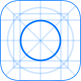
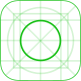
增加潜能果，更改样式

diff --git a/My_helper/pages/devlop/edit.js b/My_helper/pages/devlop/edit.js
@@ -1,39 +1,82 @@
 // pages/devlop/edit.js
+
+var app = getApp();
+var DATA = require('../../data/devlop-data.js');
+
 Page({
 
   /**
    * 页面的初始数据
    */
   data: {
+    showTab : 1,
+    tabData : [
+      {
+        id : 1,
+        txt: "潜能果计算"
+      },
+      {
+        id : 2,
+        txt: "潜能果组合"
+      }
+    ],
     FIRSTNUM : 3,
-    UNIT : 1000,
-    endNum :0
+    UNIT : 0.1,   // 亿
+    endNum :0,
+    isError: false,
+    error : '',
+    seasonData : DATA.season,
+    skyData: DATA.sky
   },
 
   /**
    * 生命周期函数--监听页面加载
    */
   onLoad: function (options) {
-  
+    // console.log(DATA);
+  },
+
+  changeTabFn : function(e){
+    let showid = e.currentTarget.dataset.showid;
+
+    this.setData({
+      showTab: showid
+    })
   },
 
   hideError : function(){
-
+    this.setData({
+      isError: false
+      })
   },
 
   computation: function (e){
 
-    let val = e.detail.value;
-    console.log(val);
+    let valArr = e.detail.value;
+    var checkForm = app.regFn(valArr);
+    
 
-    let myNum = parseInt(val.myNum, 10);
-    let wantNum = parseInt(val.wantNum, 10);
+    if (checkForm === undefined){
 
-    let endNum = (myNum + 3 + wantNum + 2) * (wantNum - myNum) / 2;
+      let myNum = parseInt(valArr.myNum, 10);
+      let wantNum = parseInt(valArr.wantNum, 10);
 
-    this.setData({
-      endNum: endNum*1000
-    })
+      let endNum = ((this.data.FIRSTNUM + myNum) + (wantNum + this.data.FIRSTNUM - 1)) * (wantNum - myNum) / 2;
+
+      this.setData({
+        isError: false,
+        error: '',
+        endNum: (endNum * this.data.UNIT).toFixed(2)
+      })
+
+    } else {
+
+      this.setData({
+        isError : true,
+        error : checkForm,
+        endNum : 0
+      })
+    }
     
   },
 

diff --git a/My_helper/data/devlop-data.js b/My_helper/data/devlop-data.js
@@ -1,0 +1,71 @@
+var season = [
+  {
+    name: "春雷",
+    pic : "season1",
+    status : "法术防御+1"
+  },
+  {
+    name: "夏雨",
+    pic: "season2",
+    status: "物理防御+1"
+  },
+  {
+    name: "秋风",
+    pic: "season2",
+    status: "速度+1"
+  },
+  {
+    name: "冬雪",
+    pic: "season4",
+    status: "气血+5"
+  }
+];
+
+var sky = [
+  {
+    name: "白虹贯日",
+    pic : "sky1",
+    status: "物理伤害+3"
+  }, {
+    name: "彗星袭月",
+    pic: "sky2",
+    status: "法术伤害+3"
+  }, {
+    name: "荧惑守心",
+    pic: "sky3",
+    status: "潜能果最多属性+1"
+  }, {
+    name: "太白经天",
+    pic: "sky4",
+    status: "治疗强度+3"
+  }, {
+    name: "命宫摩羯",
+    pic: "sky5",
+    status: "封印命中+2"
+  }, {
+    name: "九星连珠",
+    pic: "sky6",
+    status: "物理防御+3"
+  }, {
+    name: "众星拱月",
+    pic: "sky7",
+    status: "抵抗封印+2"
+  }, {
+    name: "日月同辉",
+    pic: "sky8",
+    status: "气血+15"
+  }, {
+    name: "星河灿烂",
+    pic: "sky9",
+    status: "法术防御+3"
+  }, {
+    name: "天关星客",
+    pic: "sky10",
+    status: "速度+3"
+  }
+];
+
+module.exports={
+  season : season,
+  sky: sky
+}

diff --git a/My_helper/app.js b/My_helper/app.js
@@ -34,7 +34,9 @@ App({
   reg : {
     'area' : {"reg": /^[\u4E00-\u9FA5\uF900-\uFA2D]{1,4}$/,"err":"大区名为1~4位中文，不支持特殊字符"},
     'role' : {"reg": /^[\w-~!@#$%^&*()\\,.\/\?\{\}\[\]\u4E00-\u9FA5\uF900-\uFA2D]{1,6}$/,"err":"角色名为1~6位中文，不支持特殊字符"},
-    'level' : {"reg": /^[0-9]{2,3}$/,"err":"等级为2-3位纯数字"}
+    'level': { "reg": /^[0-9]{2,3}$/, "err": "等级为2-3位纯数字" },
+    'myNum': { "reg": /^[0-9]{1,2}$/, "err": "潜能果个数为1-2位纯数字" },
+    'wantNum': { "reg": /^[0-9]{1,2}$/, "err": "潜能果个数为1-2位纯数字" }
   },
   
   /**
@@ -42,13 +44,13 @@ App({
    * @param 
    */
   regFn : function(ob){
-    console.log(ob)
+
     let key = null;
     let _t = this;
 
-    if(ob.level){
-      ob.level = parseInt(ob.level,10);
-    };
+    // if(ob.level){
+    //   ob.level = parseInt(ob.level,10);
+    // };
 
     for(key in ob){
       if(!_t.reg[key].reg.test(ob[key])){

diff --git a/My_helper/pages/welcome/welcome.js b/My_helper/pages/welcome/welcome.js
@@ -70,7 +70,7 @@ Page({
    * 创建角色
    */
   creatRole: function () {
-    console.log("11");
+
     wx.navigateTo({
       url: '../role/role'
     })
@@ -83,8 +83,8 @@ Page({
   creatPro: function () {
 
     let id = 'D' + app.getTime().time;
-    console.log(id);
-    console.log(historyInfo[id]);
+    // console.log(id);
+    // console.log(historyInfo[id]);
     if (historyInfo[id] !== undefined) {
       wx.showModal({
         title: '',
